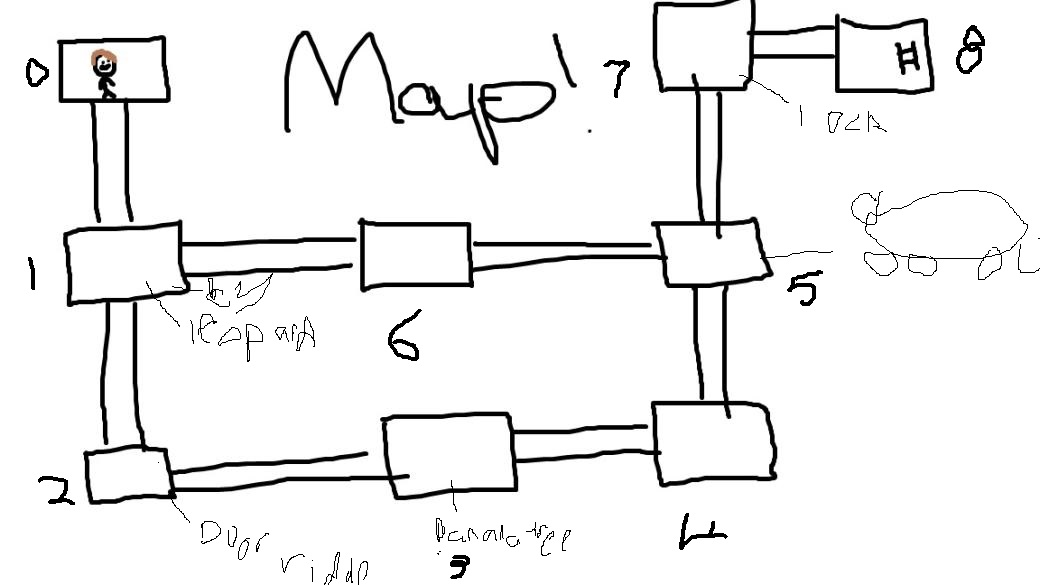
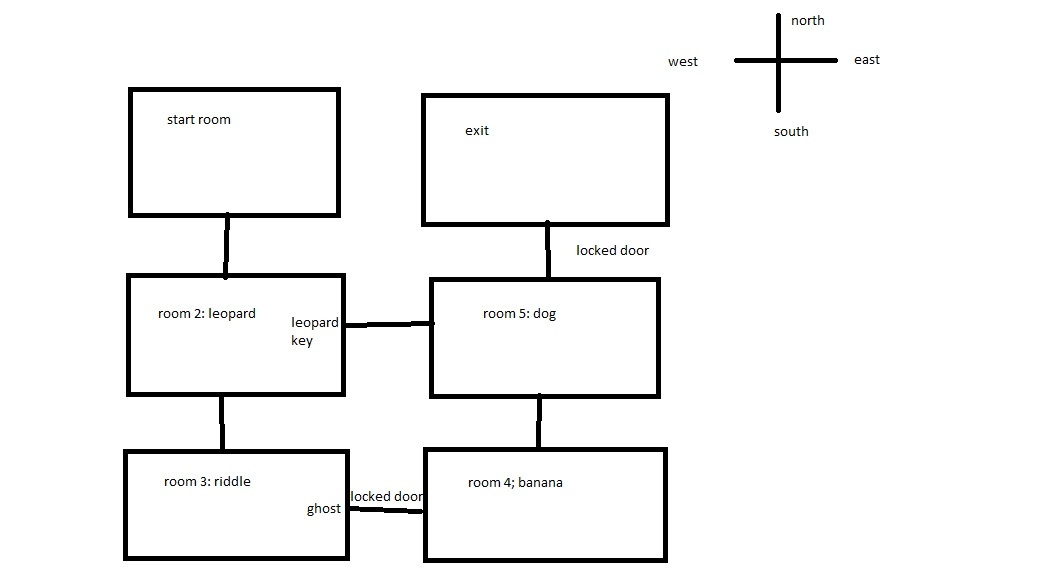
added new map

diff --git a/Sloth-game-project/Sloth-game-project/Program.cs b/Sloth-game-project/Sloth-game-project/Program.cs
@@ -23,9 +23,18 @@ namespace Sloth_game_project
             string answer1, answer2;
 
             Console.Clear();
+            Console.WriteLine("RULES/INTRODUCTION");
+            Console.WriteLine("");
+            Console.WriteLine("The rules are simple, in each room there will be multiple options for you to interact with the environment,");
+            Console.WriteLine("There will also be the option to move into a different room either north, south east and west,");
+            Console.WriteLine("You will have to navigate these rooms and explore the options that you feel best fits for your current situation,");
+            Console.WriteLine("Be carefull however, as some options will have different outcomes to certain situations which will affect your story,");
+            Console.WriteLine("Try to explore as many options as you can to undercover the story of slothscape!");
+            Console.WriteLine("");
+            Console.WriteLine("press enter to continue...");
+            Console.ReadLine();
             Console.WriteLine("You are an exotic sloth, escaping dangerous poachers that want to sell you as a pet.");
-            Console.WriteLine();
-            Thread.Sleep(2000);
+
             Console.WriteLine("You make a narrow escape in the sewers, but you reach a few rooms that are seemingly a dead end.");
             Console.WriteLine();
             Thread.Sleep(2000);
